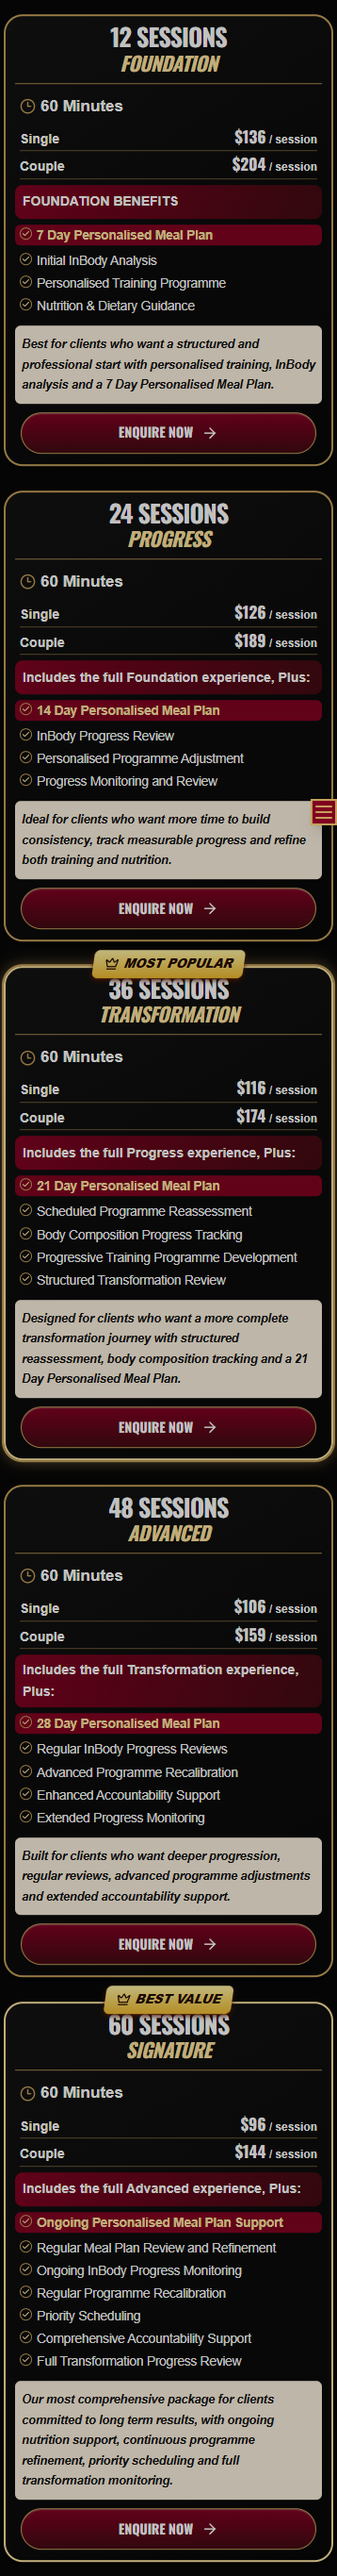
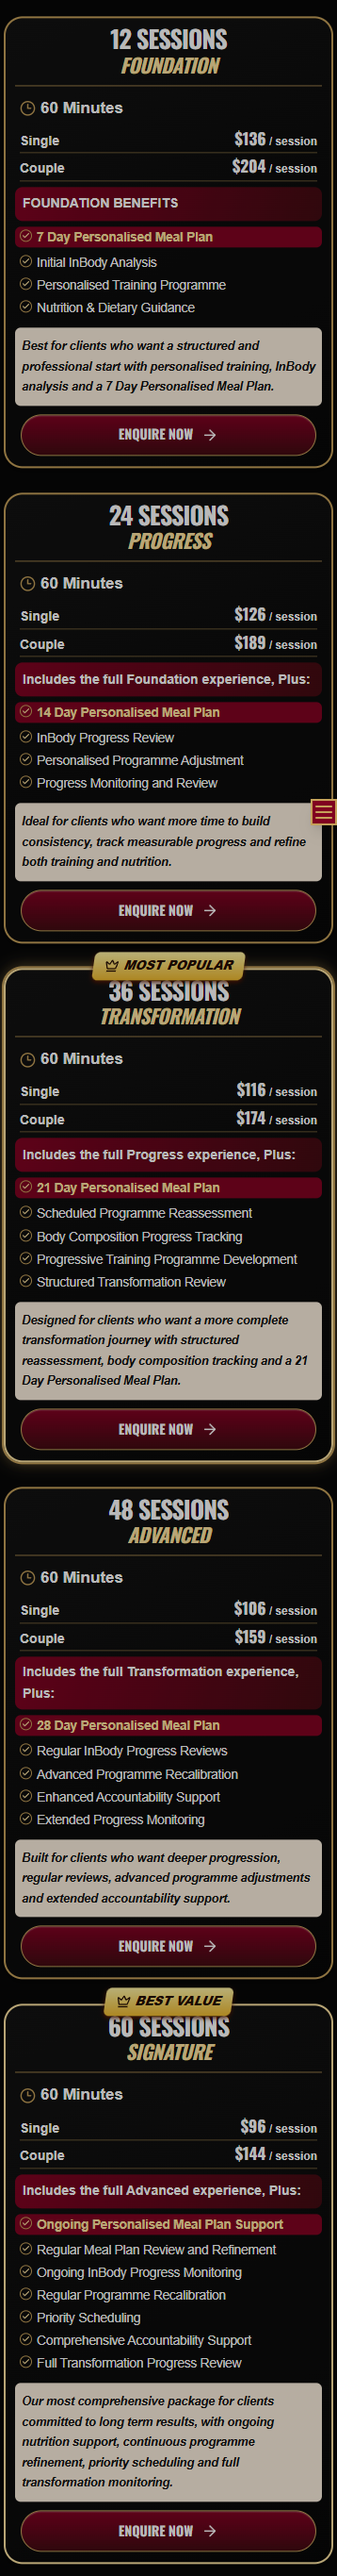
agus

Changed region(s): [[0.0, 0.0, 0.9832, 0.996]]

diff --git a/src/components/RateCardsGrid.module.css b/src/components/RateCardsGrid.module.css
@@ -9,31 +9,31 @@
 .brand { display: flex; align-items: center; gap: 12px; flex: 0 0 39%; border-right: 2px solid #c5a059; padding-right: 24px; }
 .brand img { width: 72px; height: 80px; object-fit: contain; }
 .brand strong { font-size: clamp(18px, 2vw, 29px); font-style: italic; font-weight: 900; white-space: nowrap; }
-.brand span { display: block; text-align: center; color: #FFE5A3; font-size: 17px; font-style: italic; font-weight: 800; letter-spacing: 2px; }
+.brand span { display: block; text-align: center; color: #C5A059; font-size: 17px; font-style: italic; font-weight: 800; letter-spacing: 2px; }
 .headline { flex: 1; }
 .headline h1 { font-family: Oswald, Arial, sans-serif; font-size: clamp(22px, 2.25vw, 35px); line-height: 1.1; font-weight: 900; font-style: italic; white-space: normal; }
-.headline h1 span { color: #FFE5A3; }
+.headline h1 span { color: #C5A059; }
 .headline p { display: flex; align-items: center; justify-content: space-between; gap: 12px; margin-top: 12px; font-size: 12px; letter-spacing: 3px; }
 .headline i { height: 12px; border-left: 1px solid #C5A059; }
-.starter { display: flex; align-items: center; margin: 0 6% 30px; border: 2px solid #C5A059; border-radius: 18px; background: #070707; box-shadow: 0 2px 9px #ffcd6755; }
-.starterTitle { flex: 0 0 23%; align-self: stretch; display: flex; flex-direction: column; justify-content: center; padding: 7px 10px; background: linear-gradient(120deg,#fff4b1,#f5ce53 70%,#b17b1b); border-radius: 15px; text-align: center; color: #360006; font-size: 27px; font-style: italic; font-weight: 900; line-height: .9; }
+.starter { display: flex; align-items: center; margin: 0 6% 30px; border: 2px solid #C5A059; border-radius: 18px; background: #070707; box-shadow: 0 2px 9px #C5A05955; }
+.starterTitle { flex: 0 0 23%; align-self: stretch; display: flex; flex-direction: column; justify-content: center; padding: 7px 10px; background: #C5A059; border-radius: 15px; text-align: center; color: #360006; font-size: 27px; font-style: italic; font-weight: 900; line-height: .9; }
 .starterTitle small { margin-top: 6px; font-size: 10px; line-height: 1.1; }
 .starterPrice { flex: 1; display: flex; align-items: center; justify-content: center; gap: 10px; padding: 9px 12px; }
 .starterPrice + .starterPrice { border-left: 1px solid #c5a059; }
-.starterPrice > svg { width: 38px; height: 38px; fill: #edc354; stroke: #edc354; }
+.starterPrice > svg { width: 38px; height: 38px; fill: #C5A059; stroke: #C5A059; }
 .starterPrice strong { font-size: 20px; white-space: nowrap; }
 .starterPrice small { font-size: 12px; }
 .starterPrice b { display: block; padding: 2px 12px; border-radius: 30px; background: linear-gradient(#a60020,#54000b); font-size: 27px; white-space: nowrap; }
 .starterPrice div > span { display: block; margin-top: 4px; text-align: center; font-size: 10px; }
-.grid { display: grid; grid-template-columns: minmax(0,1fr); gap: 26px 8px; padding-top: 8px; }
+.grid { display: grid; grid-template-columns: minmax(0,1fr); gap: 54px 8px; padding-top: 8px; }
 .card { position: relative; display: flex; flex-direction: column; min-width: 0; border: 2px solid #C5A059; border-radius: 20px; background: linear-gradient(150deg, #101010, #050505); color: #fff; text-align: left; box-shadow: 0 3px 4px #0008; }
-.featured { border-color: #FFE5A3; }
+.featured { border-color: #C5A059; }
 .card[data-package="36"] { box-shadow: 0 0 0 2px #C5A059, 0 0 16px #C5A05999; }
 .header { padding: 8px 10px 10px; border-radius: 17px 17px 0 0; background: transparent; border-bottom: 1px solid #C5A059; margin: 0 10px; color: #fff; }
-.badge { position: absolute; top: -19px; left: 50%; transform: translateX(-50%) skew(-8deg); display: flex; align-items: center; gap: 5px; padding: 5px 12px; border-radius: 6px; background: linear-gradient(#fff3a3,#efb92d); color: #230b00; font-size: 13px; font-weight: 900; font-style: italic; white-space: nowrap; box-shadow: 0 2px 5px #5c1700; }
+.badge { position: absolute; bottom: calc(100% + 10px); left: 50%; transform: translateX(-50%) skew(-8deg); display: flex; align-items: center; gap: 5px; padding: 5px 12px; border-radius: 6px; background: #C5A059; color: #230b00; font-size: 13px; font-weight: 900; font-style: italic; white-space: nowrap; box-shadow: 0 2px 5px #5c1700; }
 .title { text-transform: uppercase; font-family: Oswald, Arial, sans-serif; font-weight: 900; line-height: 1.05; text-align: center; }
 .sessions { display: block; font-size: clamp(20px, 2.1vw, 29px); letter-spacing: -.8px; }
-.name { display: block; padding-top: 3px; font-size: clamp(15px, 1.4vw, 20px); font-style: italic; letter-spacing: -.5px; color: #FFE5A3; }
+.name { display: block; padding-top: 3px; font-size: clamp(15px, 1.4vw, 20px); font-style: italic; letter-spacing: -.5px; color: #C5A059; }
 .separator { position: absolute; width: 1px; height: 1px; overflow: hidden; clip-path: inset(50%); }
 .body { display: flex; flex: 1; flex-direction: column; padding: 7px; }
 .duration { display: flex; align-items: center; gap: 5px; margin: 0 5px 4px; font-size: 12px; font-weight: 700; }
@@ -45,18 +45,18 @@
 .benefitsHeading { display: flex; align-items: center; min-height: 36px; margin-top: 6px; padding: 5px 8px; border-radius: 8px; background: linear-gradient(110deg,#800020,#400810); color: #fff; font-size: 12px; font-weight: 700; line-height: 1.08; }
 .benefits { display: flex; flex-direction: column; gap: 4px; margin: 6px 0 9px; list-style: none; font-size: 13px; font-weight: 400; letter-spacing: -.35px; line-height: 1.15; }
 .benefit, .mealPlan { display: flex; align-items: flex-start; gap: 5px; padding: 0 5px; }
-.mealPlan { padding: 3px 5px; border-radius: 6px; background: #800020; color: #FFE5A3; font-weight: 700; }
-.check { width: 13px; height: 13px; flex-shrink: 0; padding: 1px; border: 1px solid #C5A059; border-radius: 50%; background: transparent; color: #FFE5A3; stroke-width: 3; }
+.mealPlan { padding: 3px 5px; border-radius: 6px; background: #800020; color: #C5A059; font-weight: 700; }
+.check { width: 13px; height: 13px; flex-shrink: 0; padding: 1px; border: 1px solid #C5A059; border-radius: 50%; background: transparent; color: #C5A059; stroke-width: 3; }
 .closing { margin-top: 4px; }
 .description { padding: 9px 7px; border-radius: 6px; background: #fcf0de; font-size: 11.5px; font-style: italic; font-weight: 600; letter-spacing: -.25px; line-height: 1.17; }
 .button { display: flex; align-items: center; justify-content: center; gap: 9px; width: calc(100% - 12px); margin: 9px auto 1px; padding: 7px 8px; border: 1px solid #C5A059; border-radius: 30px; background: linear-gradient(#800020,#400810); color: #fff; text-align: center; font-family: Oswald, Arial, sans-serif; font-size: 14px; font-weight: 700; line-height: 1.15; box-shadow: inset 0 1px 1px #ffffff44; }
 .button:hover { filter: brightness(1.2); }
-.button:focus-visible { outline: 2px solid #956f2e; outline-offset: 4px; }
-.posterFooter { display: flex; align-items: center; justify-content: space-between; gap: 10px; margin: 20px 24px 0; padding-top: 8px; border-top: 1px solid #d8a84633; }
+.button:focus-visible { outline: 2px solid #C5A059; outline-offset: 4px; }
+.posterFooter { display: flex; align-items: center; justify-content: space-between; gap: 10px; margin: 20px 24px 0; padding-top: 8px; border-top: 1px solid #C5A05933; }
 .posterFooter > div { display: flex; align-items: center; gap: 7px; padding-right: 12px; border-right: 1px solid #C5A059; }
-.posterFooter svg { width: 36px; height: 36px; color: #FFE5A3; flex-shrink: 0; }
+.posterFooter svg { width: 36px; height: 36px; color: #C5A059; flex-shrink: 0; }
 .posterFooter span { font-size: 10px; line-height: 1.2; }
-.posterFooter strong { font-size: 22px; font-style: italic; color: #FFE5A3; white-space: nowrap; }
+.posterFooter strong { font-size: 22px; font-style: italic; color: #C5A059; white-space: nowrap; }
 .additionalOffers { margin-top: 32px; }
 .extraGrid { display: grid; grid-template-columns: minmax(0,1fr); gap: 20px; }
 @media (min-width: 640px) { .grid { grid-template-columns: repeat(2,minmax(0,1fr)); } }
@@ -109,7 +109,7 @@
 /* Preserve comfortable tap targets and prevent cramped starter pricing. */
 .button { min-height: 44px; }
 .starterTitle { font-size: 23px; line-height: 1.1; }
-.grid { align-items: stretch; padding: 22px 4px 8px; }
+.grid { align-items: stretch; padding: 48px 4px 8px; }
 /* Share spare height between benefits so cards and enquiry buttons align. */
 @media (min-width: 640px) {
   .benefits { flex: 1; justify-content: space-between; }
